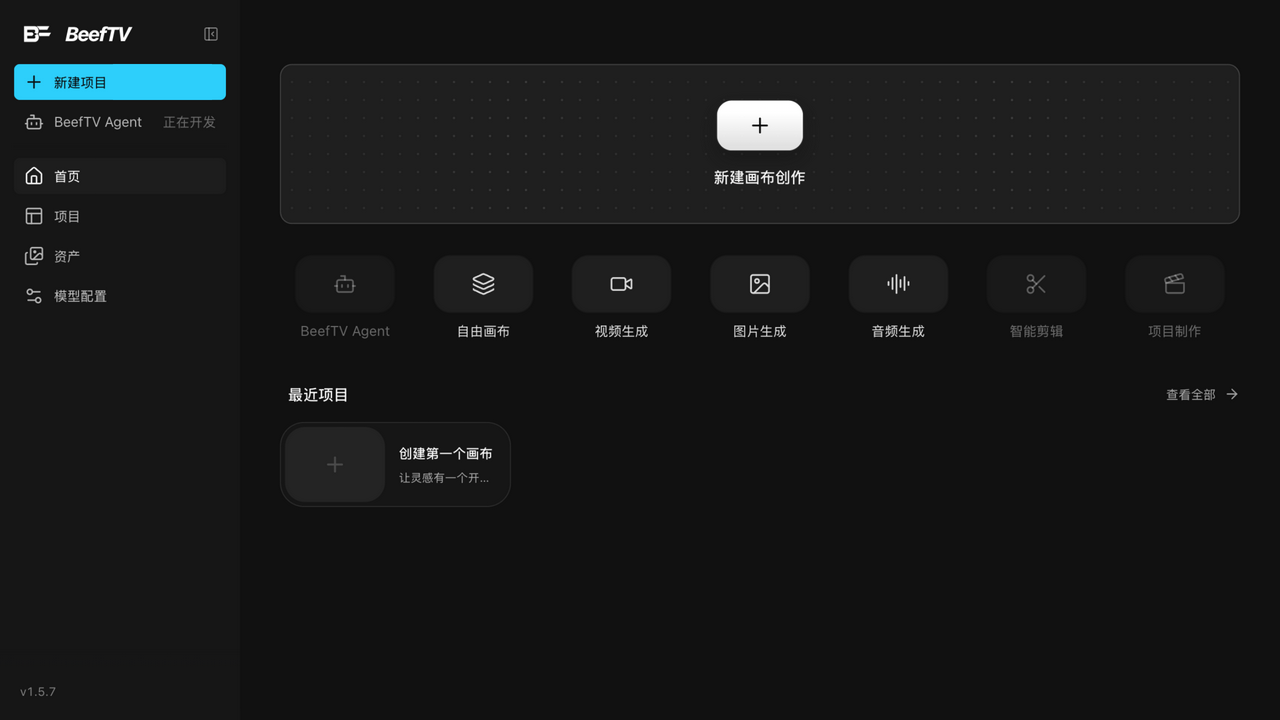
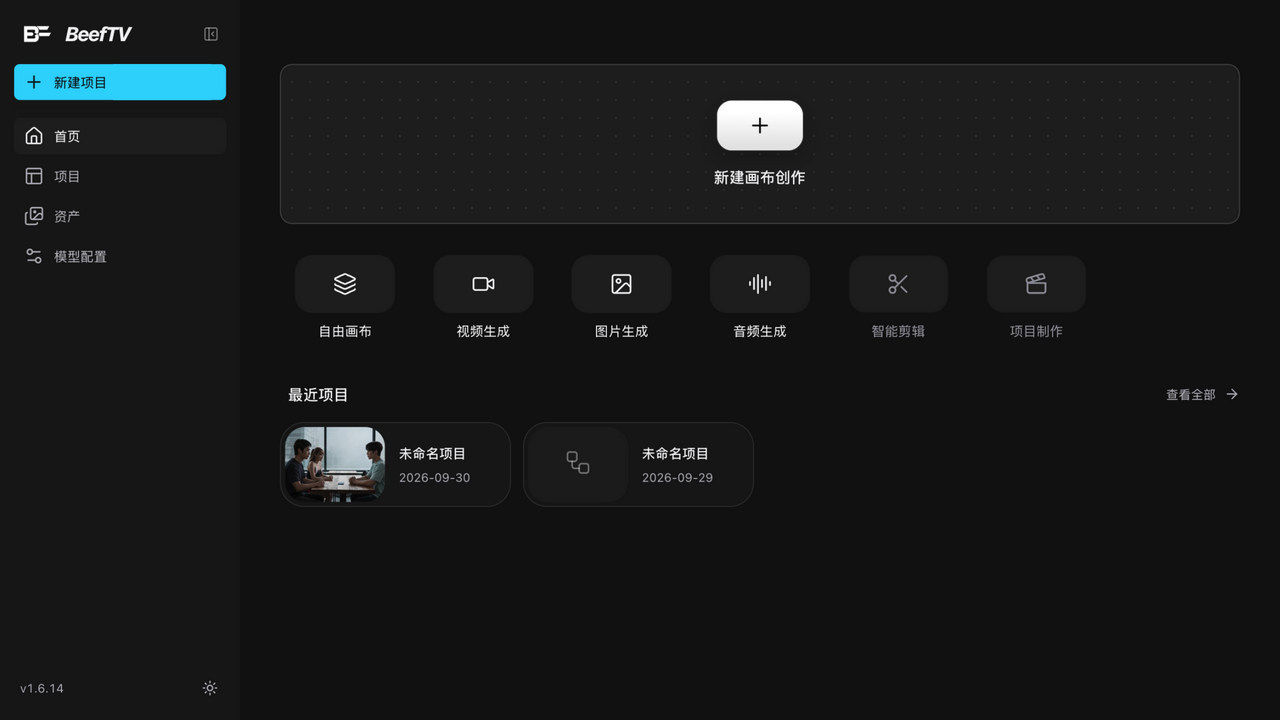
docs: beeftv manual batch 51 — vite restart reveals v1.6.14 badge, home screenshot reshot (instance/version alignment)

diff --git a/docs/user-manual/beeftv-canvas/PROGRESS.md b/docs/user-manual/beeftv-canvas/PROGRESS.md
@@ -40,6 +40,7 @@
 | 30 | 手册网站构建收口（参照 TDCanvas 模式）：build-site.sh 六步全绿 + 浏览器级预览实测（页面/侧边栏/图片 4/4/搜索弹窗）+ 排障「旧预览进程缓存清单致 404」+ SKILL §9 增补 BeefTV 实例与运维坑 | ✅ 完成（AUDIT 环境记录十三） |
 | 36 | ~~生成新片段尝试轮~~（Batch 39 补走成功，见下） | ✅ 已闭环 |
 | 37 | 生成新片段二次尝试仍受阻；转源码深化——timeline-editing.md 新增「生成新片段（组装回写画布）」小节（命名/提示/添加素材口径） | ✅ 源码深化完成（AUDIT 环境记录二十） |
+| 51 | 实例版本对齐轮：发现 vite 长命进程版本徽标不热更（v1.6.6→重启后 v1.6.14）；01 首页 v1.6.14 重摄入册；FINAL-REPORT 截图构建行更新 | ✅ 完成（AUDIT 环境记录三十） |
 | 47 | 版本口径一致性巡检：README 适用版本 v1.6.13→v1.6.14 对齐（Batch 27 漏改处），补增量描述 | ✅ 完成（AUDIT 环境记录二十八） |
 | 45 | 快捷键中心全量核对（24 条·5 分类）：20-reference 三处对齐（键位口径/V 语义/补两行） | ✅ 完成（AUDIT 环境记录二十七） |
 | 44 | 导演台快捷键源码复核：变换键位 W/E/R → V/R/F（兼容 W/E），20-reference 修正 | ✅ 完成（AUDIT 环境记录二十六） |

diff --git a/docs/user-manual/beeftv-canvas/AUDIT.md b/docs/user-manual/beeftv-canvas/AUDIT.md
@@ -261,6 +261,14 @@
 - 生成新片段补走本轮未再尝试（表面劣化模式持续，环境记录二十在案）。
 - 账本口径不变：25 任务 / 33 md / 44 images / 20 verified / 5 excluded。
 
+## 环境记录三十（Batch 51，2026-09-30，实例版本对齐轮）
+
+- **上游**：main 仍 852961a/v1.6.14；三支分叉/分支无新变化。
+- **发现并修复陈旧实例徽标**：vite 进程自 v1.6.6 时代启动，源码热更为 v1.6.14 但版本常量（VERSION/启动期读取）不热更——侧栏徽标长期显示 v1.6.6。重启 vite（同参数 :3001 strictPort）后徽标实证 **v1.6.14**。
+- **01 首页 v1.6.14 重摄**入册（sha256 更新，step/alt 同步）；FINAL-REPORT「截图摄于」行更新为 v1.5.7–v1.6.14。
+- **运维教训（可复用）**：vite dev 长命进程的版本徽标/常量不随 checkout 热更——升级工作树后必须重启 dev server 才能获得版本一致的运行实例（与 Batch 25 后端重启同纪律）。
+- 账本：25 任务 / 33 md / 44 images / 20 verified / 5 excluded。
+
 ## 发现与修复
 
 | 发现 | 严重性 | 处理 |

diff --git a/docs/user-manual/beeftv-canvas/FINAL-REPORT.md b/docs/user-manual/beeftv-canvas/FINAL-REPORT.md
@@ -7,7 +7,7 @@
 | 项 | 值 |
 |---|---|
 | 目标应用 | BeefTV（AI 影视创作工作台：无限画布 + 时间线剪辑 + 三维导演台 + 云端 Agent） |
-| 手册对应版本 | **v1.6.14**（公共最新发布；截图摄于 v1.5.7–v1.6.13 构建，v1.6.7–v1.6.14 增量已审计并以文字注记标注于对应页面） |
+| 手册对应版本 | **v1.6.14**（公共最新发布；截图摄于 v1.5.7–v1.6.14 构建（01 首页为 v1.6.14 实拍），v1.6.7–v1.6.14 增量已审计并以文字注记标注于对应页面） |
 | 源码锚点 | 调研证据锁定 `85c9686`/v1.5.7（702 处断言抽查 100% 吻合），增量差异已审计至 v1.6.14（覆盖 Seedance 付费确认/素材校验强化/企业协议修复/Windows 深度运行时与系统代理/导演台扩展/任务详情实时刷新） |
 | 目标 URL | 本地 `http://localhost:3001`（自托管站同构） |
 | 发布产物 | `.vitepress/dist/`（28+ 页 HTML，构建校验六步全绿） |
